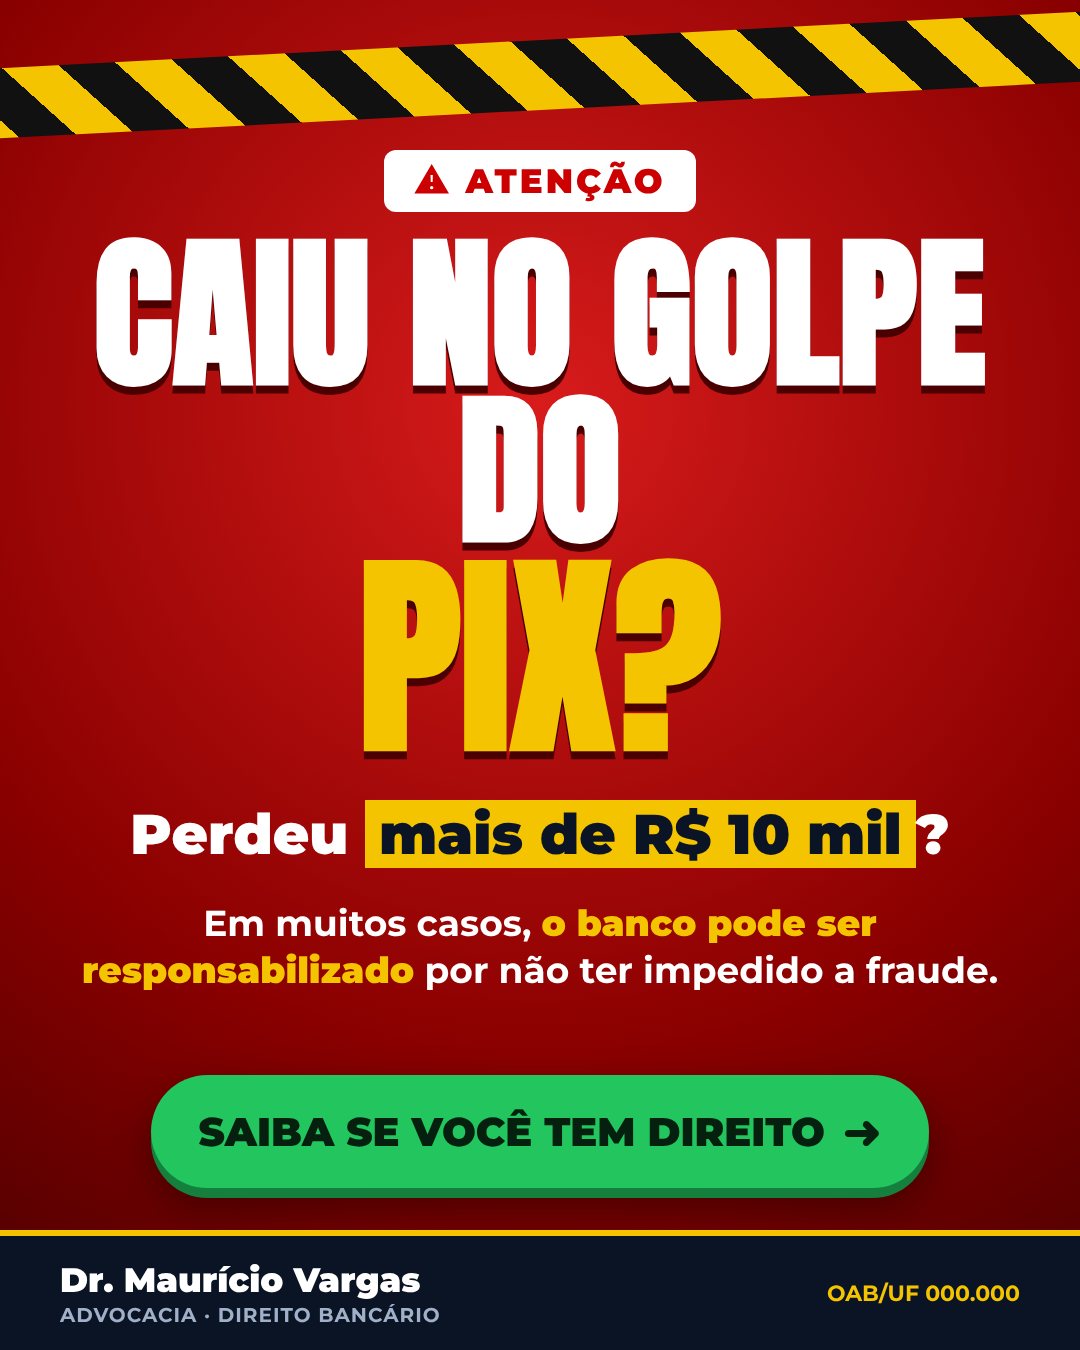
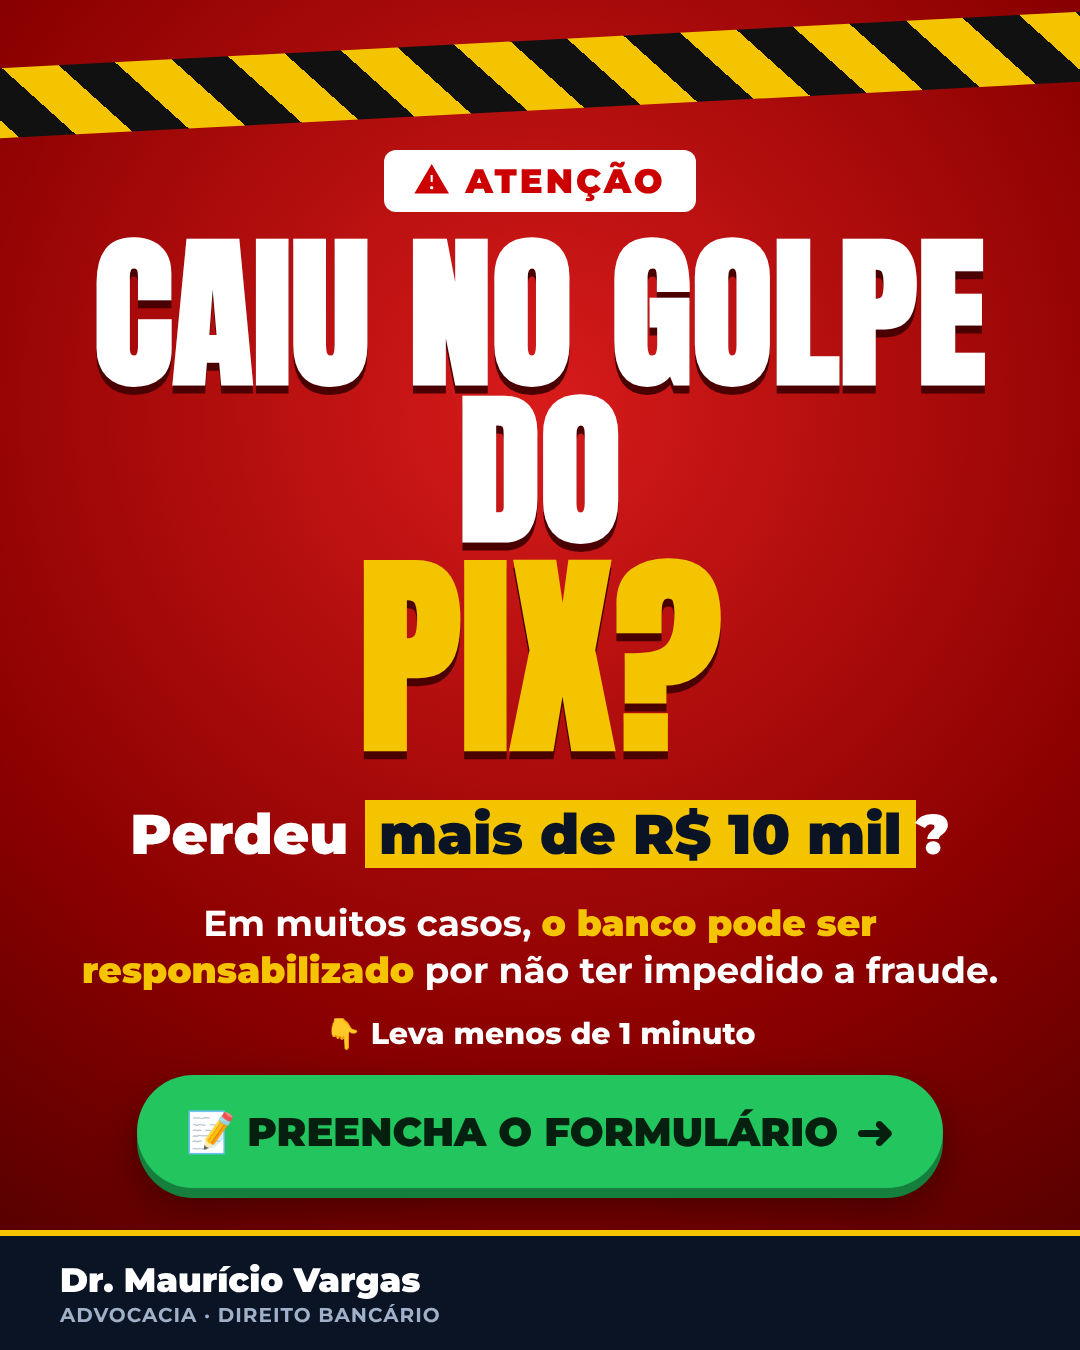
Estáticos golpe PIX: CTA de preencher formulário e remove OAB do rodapé
Claude-Session: https://claude.ai/code/session_016fiTWN9YRRLyZnsrRQchzn

diff --git a/estaticos-golpe-pix/src/01-caiu-no-golpe.html b/estaticos-golpe-pix/src/01-caiu-no-golpe.html
@@ -10,12 +10,14 @@ h1 .pix{color:#f5c400;font-size:215px;display:block;margin-top:6px}
 .sub{position:absolute;top:900px;left:70px;right:70px;text-align:center;font-size:36px;font-weight:600;line-height:1.3}
 .sub b{color:#f5c400}
 .ctaWrap{position:absolute;top:1075px;left:0;right:0;text-align:center}
+.micro{position:absolute;top:1015px;left:0;right:0;text-align:center;font-size:30px;font-weight:800;color:#fff}
 </style></head><body>
 <div class="faixa f1"></div>
 <div class="alerta"><span class="tag">⚠ ATENÇÃO</span></div>
 <h1 class="anton">Caiu no golpe do <span class="pix">PIX?</span></h1>
 <div class="valor">Perdeu&nbsp;<span class="hl">mais de R$ 10 mil</span>?</div>
 <div class="sub">Em muitos casos, <b>o banco pode ser responsabilizado</b> por não ter impedido a fraude.</div>
-<div class="ctaWrap"><span class="cta">Saiba se você tem direito <span class="seta">➜</span></span></div>
-<div class="footer"><div class="nome">Dr. Maurício Vargas<small>ADVOCACIA · DIREITO BANCÁRIO</small></div><div class="oab">OAB/UF 000.000</div></div>
+<div class="micro">👇 Leva menos de 1 minuto</div>
+<div class="ctaWrap"><span class="cta">📝 Preencha o formulário <span class="seta">➜</span></span></div>
+<div class="footer"><div class="nome">Dr. Maurício Vargas<small>ADVOCACIA · DIREITO BANCÁRIO</small></div></div>
 </body></html>

diff --git a/estaticos-golpe-pix/src/03-checklist.html b/estaticos-golpe-pix/src/03-checklist.html
@@ -21,7 +21,7 @@ body{background:linear-gradient(180deg,#f5c400 0%,#f5c400 36%,#fff 36%)}
  <div class="item"><div class="ck">✓</div><div>Você avisou o banco e <b>não recebeu o dinheiro de volta</b></div></div>
  <div class="item"><div class="ck">✓</div><div>Tem <b>comprovante do PIX</b> ou fez boletim de ocorrência</div></div>
 </div>
-<div class="aviso">Marcou algum? <b>Não espere para agir.</b></div>
-<div class="ctaWrap"><span class="cta">Fale com o advogado <span class="seta">➜</span></span></div>
-<div class="footer"><div class="nome">Dr. Maurício Vargas<small>ADVOCACIA · DIREITO BANCÁRIO</small></div><div class="oab">OAB/UF 000.000</div></div>
+<div class="aviso">Marcou algum? <b>Preencha o formulário abaixo.</b></div>
+<div class="ctaWrap"><span class="cta">📝 Preencha o formulário <span class="seta">➜</span></span></div>
+<div class="footer"><div class="nome">Dr. Maurício Vargas<small>ADVOCACIA · DIREITO BANCÁRIO</small></div></div>
 </body></html>

diff --git a/estaticos-golpe-pix/src/02-whatsapp.html b/estaticos-golpe-pix/src/02-whatsapp.html
@@ -27,6 +27,6 @@ h1 span{color:#f5c400}
 </div>
 <div class="carimbo anton">GOLPE</div>
 <div class="box"><p>Falso parente, falsa central do banco, falso investimento…<br>Se foi <span class="hl">mais de R$ 10 mil</span>, você pode ter direito de buscar o valor na Justiça.</p></div>
-<div class="ctaWrap"><span class="cta">Entenda seus direitos <span class="seta">➜</span></span></div>
-<div class="footer"><div class="nome">Dr. Maurício Vargas<small>ADVOCACIA · DIREITO BANCÁRIO</small></div><div class="oab">OAB/UF 000.000</div></div>
+<div class="ctaWrap"><span class="cta">📝 Preencha o formulário <span class="seta">➜</span></span></div>
+<div class="footer"><div class="nome">Dr. Maurício Vargas<small>ADVOCACIA · DIREITO BANCÁRIO</small></div></div>
 </body></html>
